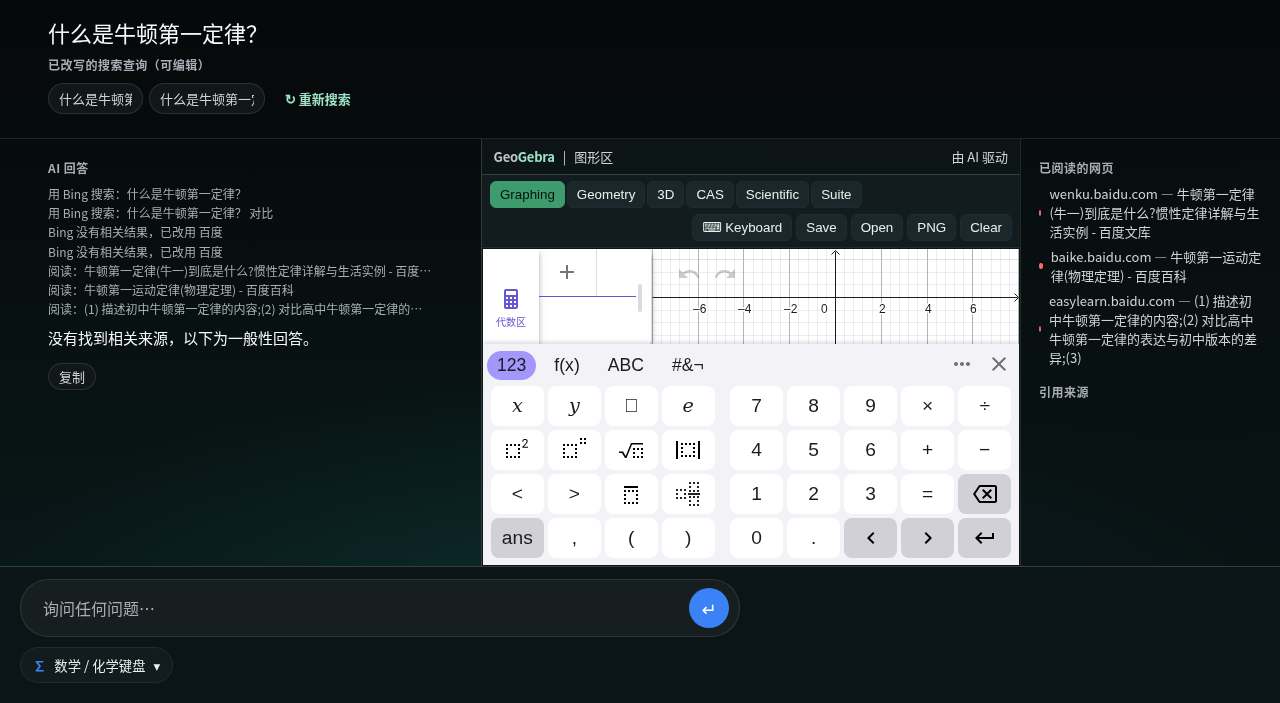
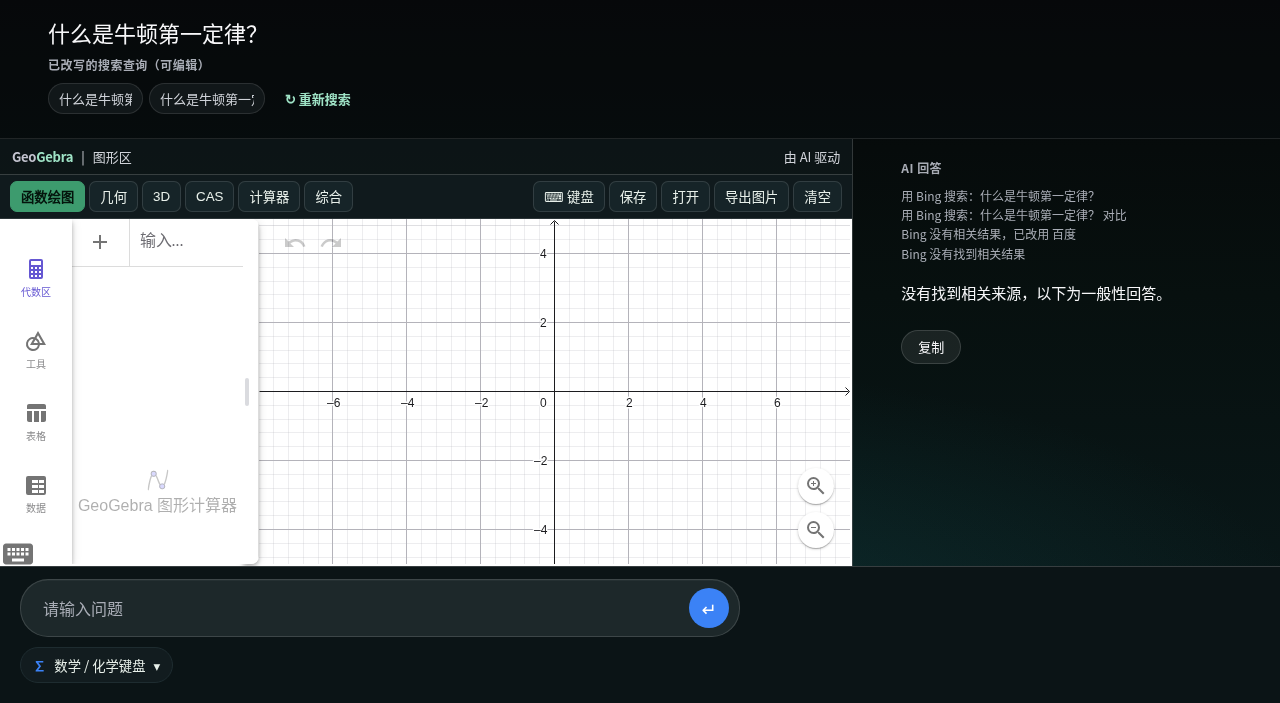
v5.3.0 / web-v2.3.0 / ipad-v1.1.0: embedded Python, Linux VM agent tools, web Pyodide, iPad v86 Linux VM

diff --git a/test/suites/30-v36.js b/test/suites/30-v36.js
@@ -175,9 +175,9 @@ module.exports = async ({ test, group, assert, eq }) => {
   });
   await test('版本号与网页缓存名匹配，网页把桌面功能标灰', () => {
     const pkg = JSON.parse(fs.readFileSync(path.join(__dirname, '..', '..', 'package.json'), 'utf8'));
-    eq(pkg.version, '5.2.0');
+    eq(pkg.version, '5.3.0');
     const sw = fs.readFileSync(path.join(__dirname, '..', '..', 'web', 'sw.js'), 'utf8');
-    assert(sw.includes("aib-web-v2.2.0"));
+    assert(sw.includes("aib-web-v2.3.0"));
     const html = fs.readFileSync(path.join(__dirname, '..', '..', 'web', 'index.html'), 'utf8');
     assert(html.includes('data-desktop-only') && html.includes('Siri'));
     const zh = fs.readFileSync(path.join(__dirname, '..', '..', 'web', 'js', 'i18n.js'), 'utf8');
